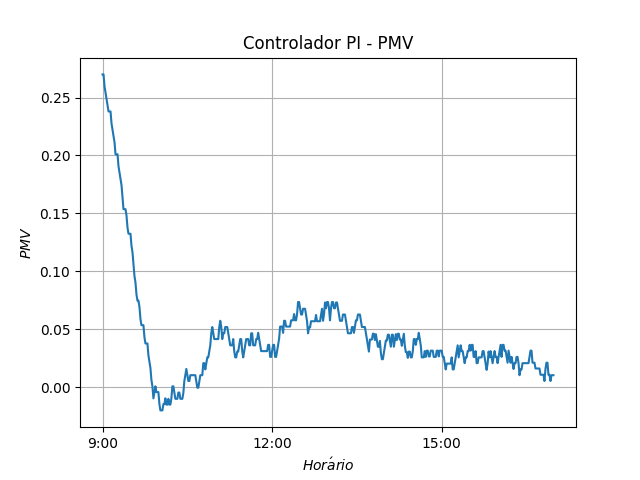
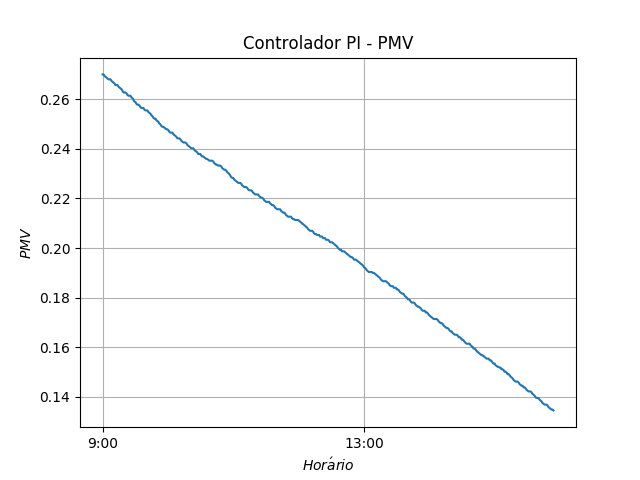
Teste LD de 8h oficial

diff --git a/Integracao/plotlib.py b/Integracao/plotlib.py
@@ -96,7 +96,7 @@ def plotModel (database, name, controllerType):
         tempMeetingRoom.append(line[1])
         humMeetingRoom.append(line[2])
         
-        if(math.isnan(float(line[3])) or line[3]=='nan'):
+        if(math.isnan(float(line[3])) or line[3]=='nan' or int(line[3]) > 25):
             tempLara.append(tempLaraAnterior)
         else:
             tempLara.append(line[3])
@@ -105,11 +105,11 @@ def plotModel (database, name, controllerType):
         if(math.isnan(float(line[4])) or line[4]=='nan'):
             tempExternal.append(tempExternalAnterior)
         else:
-            if(int(line[4]) < 27):
+            if(int(line[4]) < 100):
                 tempExternal.append(line[4])
                 tempExternalAnterior = line[4]
             else:
-                tempExternal.append(27+((line[4]-30)/4))
+                tempExternal.append(25+((line[4]-30)/4))
         
         if(controllerType != 0):
             doorSignal.append(line[5])
@@ -375,7 +375,7 @@ def plotModel (database, name, controllerType):
     plt.title(title + " - Temperatura")
     plt.ylabel(r"$Temperatura\ (^o C)$")
     plt.xlabel(r"$Hor\'ario$")
-    plt.xticks(range(0, cont,  (262)), dateTimeClean)
+    plt.xticks(range(0, cont,  (232)), dateTimeClean)
     plt.grid(True)
     plt.savefig("Log/"+save+"_"+name+"_Temp.png")
     plt.show()
@@ -387,7 +387,7 @@ def plotModel (database, name, controllerType):
     plt.title(title + " - Perturbações de Temperaturas".decode("utf-8"))
     plt.ylabel(r"$Temperatura\ (^o C)$")
     plt.xlabel(r"$Hor\'ario$")
-    plt.xticks(range(0, cont,  (262)), dateTimeClean)
+    plt.xticks(range(0, cont,  (232)), dateTimeClean)
     plt.grid(True)
     plt.savefig("Log/"+save+"_"+name+"_TempExt.png")
     plt.show()
@@ -399,7 +399,7 @@ def plotModel (database, name, controllerType):
         plt.title(title + " - PMV")
         plt.ylabel(r"$PMV$")
         plt.xlabel(r"$Hor\'ario$")
-        plt.xticks(range(0, cont,  (262)), dateTimeClean)
+        plt.xticks(range(0, cont,  (232)), dateTimeClean)
         plt.grid(True)
         plt.savefig("Log/"+save+"_"+name+"_PMV.png")
         plt.show()
@@ -433,7 +433,7 @@ def plotModel (database, name, controllerType):
         plt.title(title + " - PPD")
         plt.ylabel(r"$PPD$")
         plt.xlabel(r"$Hor\'ario$")
-        plt.xticks(range(0, cont,  (262)), dateTimeClean)
+        plt.xticks(range(0, cont,  (232)), dateTimeClean)
         plt.grid(True)
         plt.savefig("Log/"+save+"_"+name+"_PPD.png")
         plt.show()
@@ -450,7 +450,7 @@ def plotModel (database, name, controllerType):
             plt.legend((r"$Sinal\ de\ Controle$", r"$Estado\ do\ Sistema$"), loc='lower left')
         plt.ylabel(r"$Sinal$")
         plt.xlabel(r"$Hor\'ario$")
-        plt.xticks(range(0, cont,  (262)), dateTimeClean)
+        plt.xticks(range(0, cont,  (232)), dateTimeClean)
         plt.grid(True)
         plt.savefig("Log/"+save+"_"+name+"_Signal.png")
         plt.show()
@@ -461,7 +461,7 @@ def plotModel (database, name, controllerType):
             plt.title(title + " - Consumo")
             plt.ylabel(r"$Consumo (KWh)$")
             plt.xlabel(r"$Hor\'ario$")
-            plt.xticks(range(0, cont,  (262)), dateTimeClean)
+            plt.xticks(range(0, cont,  (232)), dateTimeClean)
             plt.grid(True)
             plt.savefig("Log/"+save+"_"+name+"_Energy.png")
             plt.show()
@@ -471,7 +471,7 @@ def plotModel (database, name, controllerType):
         plt.title(title + " - Contagem de Pessoas")
         plt.ylabel(r"$N\'umero\ de\ Pessoas$")
         plt.xlabel(r"$Hor\'ario$")
-        plt.xticks(range(0, cont,  (262)), dateTimeClean)
+        plt.xticks(range(0, cont,  (232)), dateTimeClean)
         plt.grid(True)
         plt.savefig("Log/"+save+"_"+name+"_People.png")
         plt.show()
@@ -481,7 +481,7 @@ def plotModel (database, name, controllerType):
         plt.title(title + " - Sinal da Porta")
         plt.ylabel(r"$Sinal$")
         plt.xlabel(r"$Hor\'ario$")
-        plt.xticks(range(0, cont,  (262)), dateTimeClean)
+        plt.xticks(range(0, cont,  (232)), dateTimeClean)
         plt.grid(True)
         plt.savefig("Log/"+save+"_"+name+"_Door.png")
         plt.show()
@@ -492,7 +492,7 @@ def plotModel (database, name, controllerType):
         plt.title(title + " - Acionamento")
         plt.ylabel(r"$Sinal$")
         plt.xlabel(r"$Hor\'ario$")
-        plt.xticks(range(0, cont,  (262)), dateTimeClean)
+        plt.xticks(range(0, cont,  (232)), dateTimeClean)
         plt.grid(True)
         plt.savefig("Log/"+save+"_"+name+"_Signal.png")
         plt.show()

diff --git a/Integracao/plots.py b/Integracao/plots.py
@@ -30,7 +30,8 @@ controllerType = 1
 # name = '2018-11-21_09-44-52_01'
 #name = '2018-11-05_22-47-36'
 #name = '2018-11-27_19-49-04' # COM PERTURBACAO
-name = '2018-12-01_09-36-33'
+#name = '2018-12-01_09-36-33'
+name = '2018-12-02_09-46-36'
 
 # PI
 # name = '2018-10-29 22:16:39'

diff --git a/Integracao/controllerlib.py b/Integracao/controllerlib.py
@@ -36,7 +36,7 @@ def Controller(lastOutput, cont):
 
         print(TAG + "Controlador: Liga-Desliga")
 
-        PERIOD = 27 # 10 segundos
+        PERIOD = 15 # 10 segundos
 
         MIN_TEMP = 22.7
         MAX_TEMP = 23.3

diff --git a/Integracao/main.py b/Integracao/main.py
@@ -23,7 +23,7 @@ def data():
     database = InicializeDatabase(str(timeHour))
     CreateTable(database)
     
-    initialNumPeople = 2
+    initialNumPeople = 1
     
     settings.initialNumPeople = initialNumPeople
     

diff --git a/Integracao/settings.py b/Integracao/settings.py
@@ -19,7 +19,7 @@ def init():
     compressorSignal = 0
     dutyCycle = 0
     isOn = 0
-    inicialNumPeople = 2
+    inicialNumPeople = 1
 
     # Tipos de Controladores
     # 0 -> Identificacao do Modelo
